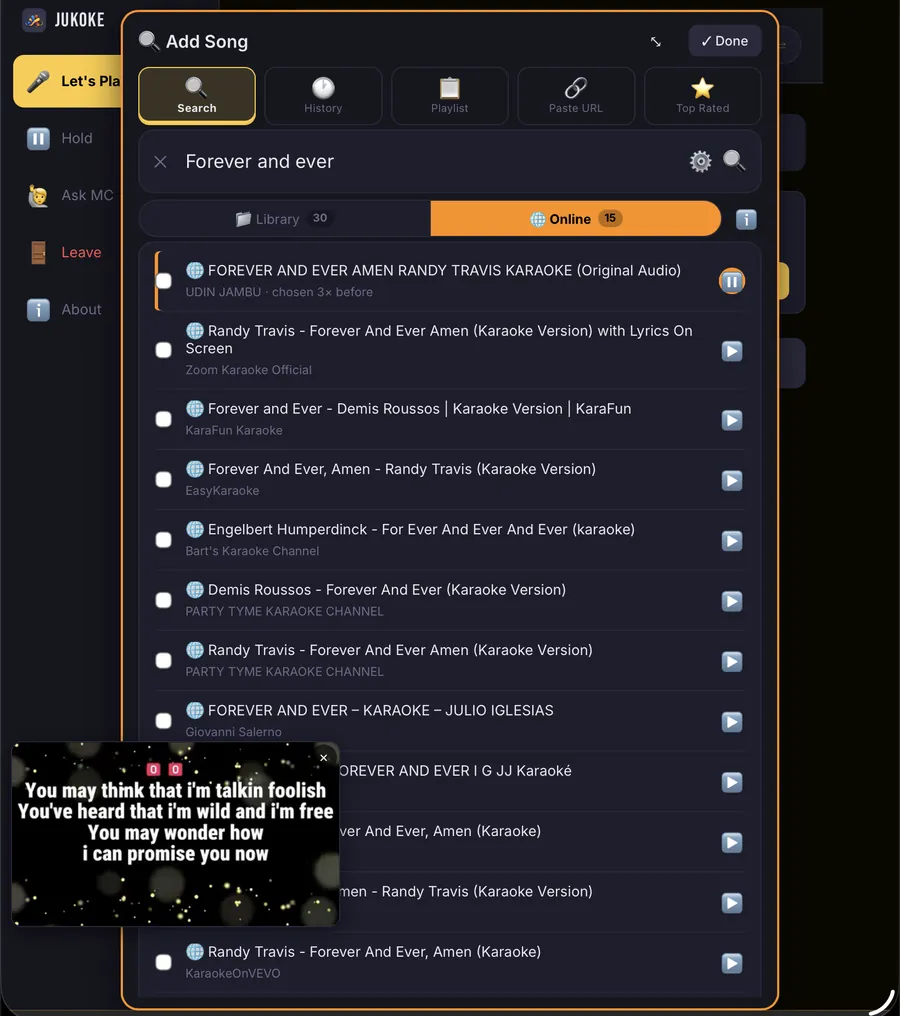
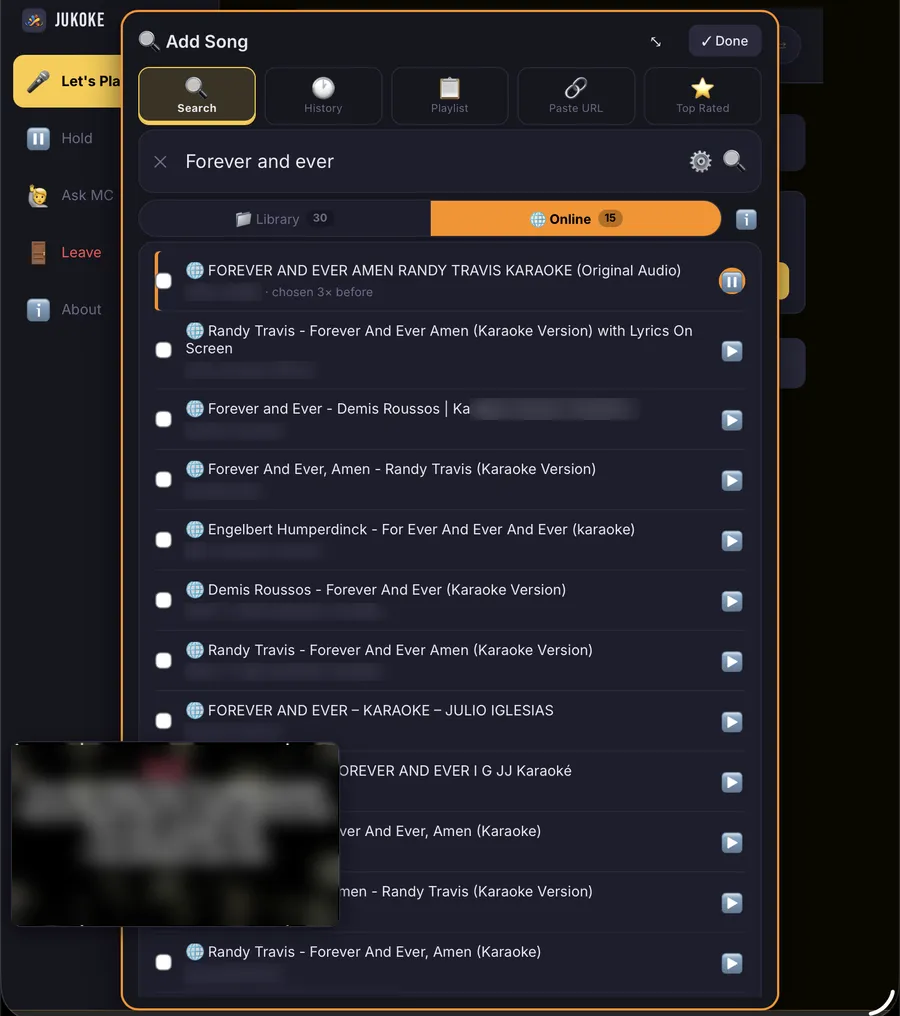
Blur third-party names in search shot; add Venue internet footer link
- Blur channel names, a channel brand in one title and the lyrics
  clip in img/shots/guest-search-preview.webp
- Add "Venue internet" footer link to privacy, terms, refunds and 404
  pages, matching the other pages

Claude-Session: https://claude.ai/code/session_01Xan4F6UW3fVdnWSMRi6F7P

Refunds: never-expire tokens, 30-day refund window, policy-change clause

- Unused tokens never expire; unused purchases refundable within 30 days
- Add "How refunds are paid" (method at our discretion, fees may be
  deducted) and "Changes to this policy" sections
- Remove [REVIEW] placeholder; update last-updated date

Claude-Session: https://claude.ai/code/session_01Xan4F6UW3fVdnWSMRi6F7P

diff --git a/refunds.html b/refunds.html
@@ -28,7 +28,7 @@
 </header>
 <main id="main">
 <p class="draft-banner" role="note"><strong>Draft.</strong> Review this page before launch, then delete this banner.</p>
-<section class="wrap block page-head"><h1>Refunds</h1><p class="muted">Last updated: October 3, 2026</p></section>
+<section class="wrap block page-head"><h1>Refunds</h1><p class="muted">Last updated: October 11, 2026</p></section>
 <section class="wrap block prose">
 <h2>Try before you buy</h2>
 <p>Jukoke is free to run, and every installation includes a free trial window for the paid plans, so you can see what you&rsquo;re buying before you spend anything.</p>
@@ -40,14 +40,20 @@
 <p>Tokens already spent on a session or add-on are not refundable once the session has started, except where there was a fault as described above.</p>
 
 <h2>Unused tokens</h2>
-<p>[REVIEW: decide your policy for unused tokens, for example a refund window in days, then replace this line.]</p>
+<p>Unused tokens never expire. If you haven&rsquo;t spent any tokens from a purchase, you can request a refund of that purchase within 30 days by emailing <a href="mailto:support@jukeboxoke.com">support@jukeboxoke.com</a>. After that, unused tokens stay in your wallet for future sessions but aren&rsquo;t refundable.</p>
+
+<h2>How refunds are paid</h2>
+<p>We decide how a refund is issued. It may be sent to your original payment method, credited back as tokens, or paid by another method we agree with you, and the amount may be reduced by any payment processing fees we can&rsquo;t recover.</p>
+
+<h2>Changes to this policy</h2>
+<p>We may change this refund policy at any time at our discretion. The date above shows the latest update. A change applies to purchases made after it is posted, except where the law requires otherwise.</p>
 </section>
 
 </main>
 <footer class="site-footer">
 <div class="wrap">
 <p class="foot-tag"><strong>Jukoke</strong> &mdash; Karaoke, the Nice way!</p>
-<p class="foot-links"><a href="features.html">Features</a> <a href="download.html">Download</a> <a href="news.html">News</a> <a href="support.html">Support</a> <a href="privacy.html">Privacy</a> <a href="terms.html">Terms</a> <a href="refunds.html">Refunds</a></p>
+<p class="foot-links"><a href="features.html">Features</a> <a href="download.html">Download</a> <a href="news.html">News</a> <a href="support.html">Support</a> <a href="wifi-setup.html">Venue internet</a> <a href="privacy.html">Privacy</a> <a href="terms.html">Terms</a> <a href="refunds.html">Refunds</a></p>
 <p class="foot-small">&copy; <span data-year>2026</span> Jukoke. All trademarks belong to their owners.</p>
 </div>
 </footer>

diff --git a/404.html b/404.html
@@ -35,7 +35,7 @@
 <footer class="site-footer">
 <div class="wrap">
 <p class="foot-tag"><strong>Jukoke</strong> &mdash; Karaoke, the Nice way!</p>
-<p class="foot-links"><a href="features.html">Features</a> <a href="download.html">Download</a> <a href="news.html">News</a> <a href="support.html">Support</a> <a href="privacy.html">Privacy</a> <a href="terms.html">Terms</a> <a href="refunds.html">Refunds</a></p>
+<p class="foot-links"><a href="features.html">Features</a> <a href="download.html">Download</a> <a href="news.html">News</a> <a href="support.html">Support</a> <a href="wifi-setup.html">Venue internet</a> <a href="privacy.html">Privacy</a> <a href="terms.html">Terms</a> <a href="refunds.html">Refunds</a></p>
 <p class="foot-small">&copy; <span data-year>2026</span> Jukoke. All trademarks belong to their owners.</p>
 </div>
 </footer>

diff --git a/privacy.html b/privacy.html
@@ -51,7 +51,7 @@
 <footer class="site-footer">
 <div class="wrap">
 <p class="foot-tag"><strong>Jukoke</strong> &mdash; Karaoke, the Nice way!</p>
-<p class="foot-links"><a href="features.html">Features</a> <a href="download.html">Download</a> <a href="news.html">News</a> <a href="support.html">Support</a> <a href="privacy.html">Privacy</a> <a href="terms.html">Terms</a> <a href="refunds.html">Refunds</a></p>
+<p class="foot-links"><a href="features.html">Features</a> <a href="download.html">Download</a> <a href="news.html">News</a> <a href="support.html">Support</a> <a href="wifi-setup.html">Venue internet</a> <a href="privacy.html">Privacy</a> <a href="terms.html">Terms</a> <a href="refunds.html">Refunds</a></p>
 <p class="foot-small">&copy; <span data-year>2026</span> Jukoke. All trademarks belong to their owners.</p>
 </div>
 </footer>

diff --git a/terms.html b/terms.html
@@ -50,7 +50,7 @@
 <footer class="site-footer">
 <div class="wrap">
 <p class="foot-tag"><strong>Jukoke</strong> &mdash; Karaoke, the Nice way!</p>
-<p class="foot-links"><a href="features.html">Features</a> <a href="download.html">Download</a> <a href="news.html">News</a> <a href="support.html">Support</a> <a href="privacy.html">Privacy</a> <a href="terms.html">Terms</a> <a href="refunds.html">Refunds</a></p>
+<p class="foot-links"><a href="features.html">Features</a> <a href="download.html">Download</a> <a href="news.html">News</a> <a href="support.html">Support</a> <a href="wifi-setup.html">Venue internet</a> <a href="privacy.html">Privacy</a> <a href="terms.html">Terms</a> <a href="refunds.html">Refunds</a></p>
 <p class="foot-small">&copy; <span data-year>2026</span> Jukoke. All trademarks belong to their owners.</p>
 </div>
 </footer>
